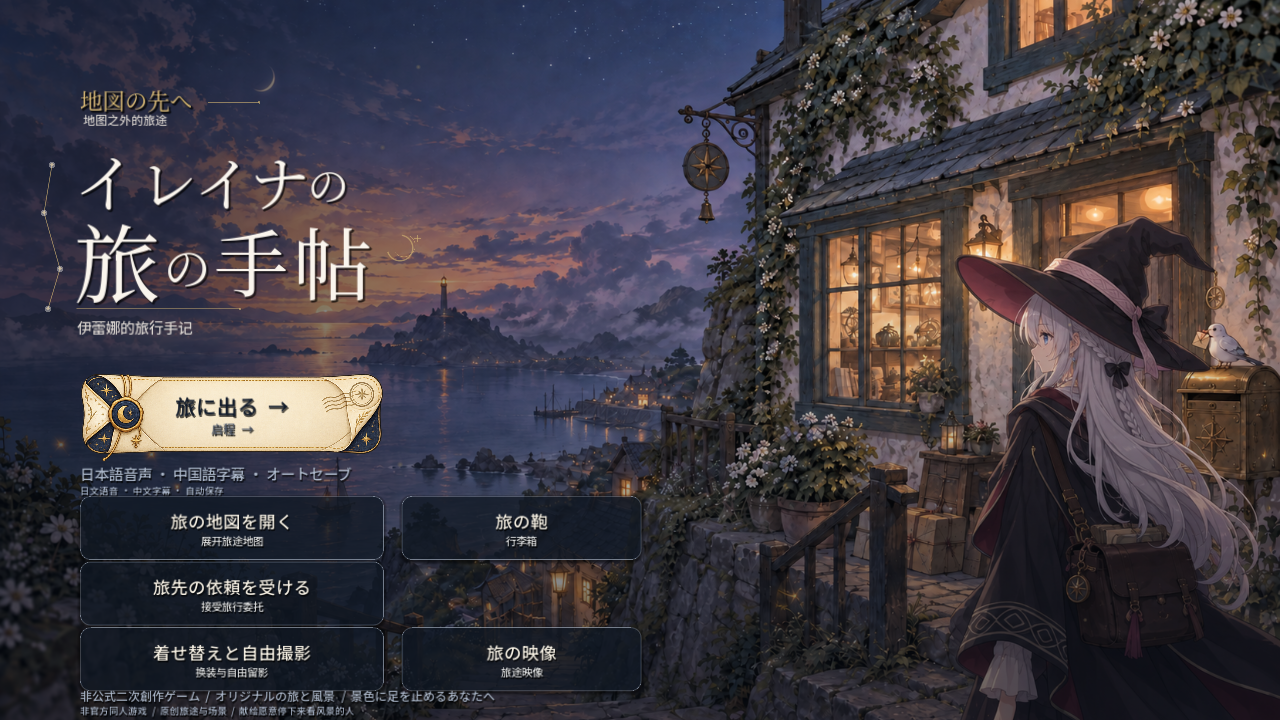
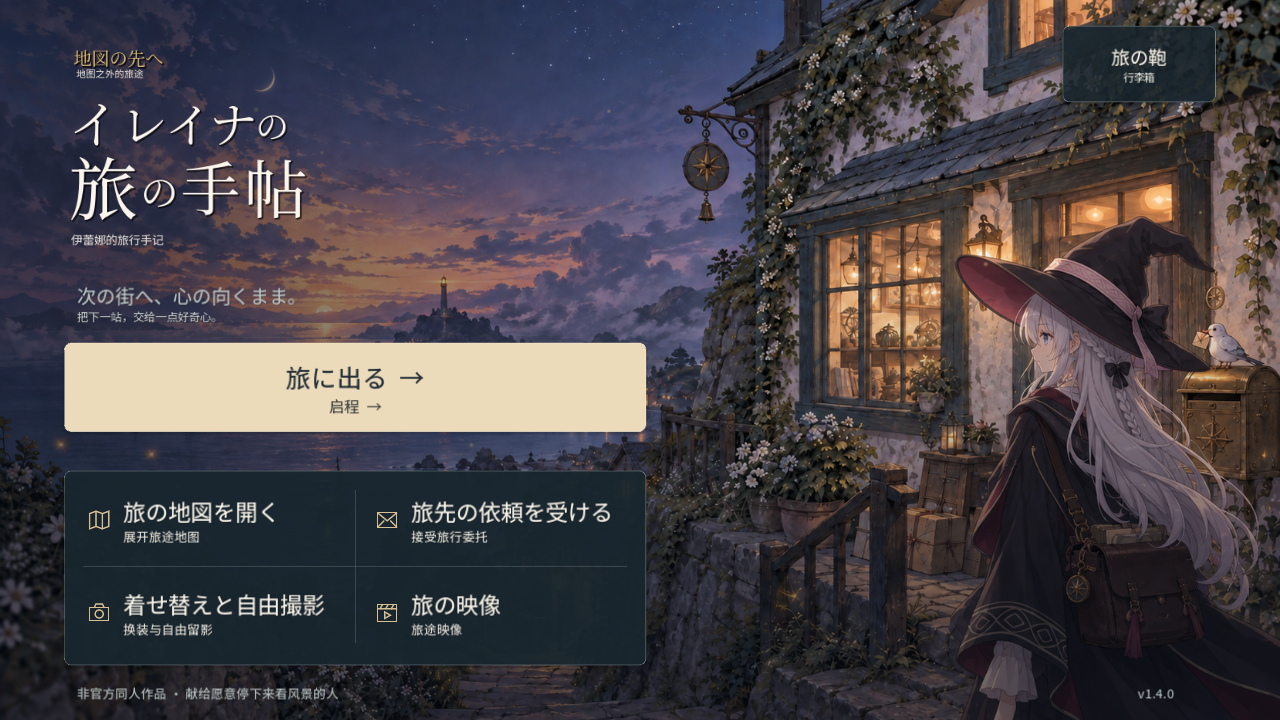
Release 1.4.0 travel-journal UI for Windows and Android

Changed region(s): [[0.0312, 0.0611, 0.5312, 1.0], [0.8125, 0.0306, 0.9688, 0.1528], [0.875, 0.9472, 0.9062, 0.9778]]

diff --git a/README.en.md b/README.en.md
@@ -18,6 +18,13 @@ There is lighthearted conversation, Elaina’s wry inner commentary, and stories
 
 ![Main menu: Elaina and a town at dusk](docs/images/menu.png)
 
+## 1.4.0 · A travel-journal interface
+
+- A clearer Start / Continue action, with map, commissions, outfits and films together in one navigation strip.
+- A separate two-column layout with larger touch targets on Android.
+- Consistent paper-toned buttons, original line icons, keyboard focus and hover feedback. Animations respect the motion setting.
+- Existing save formats are retained, so ongoing journeys can continue.
+
 ## What you can experience
 
 - **Six journeys with branching endings:** Explore different places, talk to the people you meet, make choices, and collect small discoveries along the way.
@@ -35,6 +42,10 @@ There is lighthearted conversation, Elaina’s wry inner commentary, and stories
 
 ![Broom flight minigame](docs/images/flight.png)
 
+![Journey map and progress](docs/images/map.png)
+
+![Sound and reading settings](docs/images/settings.png)
+
 These screenshots are from the Windows version. The Android version is adapted for landscape touch controls.
 
 ![Android main menu with landscape touch controls](docs/images/android-menu.png)
@@ -47,8 +58,8 @@ Go to the **[Releases page](https://github.com/elaina5201314qaq-max/elaina-trave
 
 | Platform | Current game version | Download file | Basic requirements |
 | --- | --- | --- | --- |
-| Windows | 1.3.0 | `ElainaTravel-Windows-1.3.0.zip` | A 64-bit Windows PC |
-| Android | 1.3.1 | `ElainaTravel-Android-1.3.1.apk` | Android 7.0+, 64-bit ARM64 or x86_64, and OpenGL ES 3.0 |
+| Windows | 1.4.0 | `ElainaTravel-Windows-1.4.0.zip` | A 64-bit Windows PC |
+| Android | 1.4.0 | `ElainaTravel-Android-1.4.0.apk` | Android 7.0+, 64-bit ARM64 or x86_64, and OpenGL ES 3.0 |
 
 For Android, at least **2 GB** of free space is recommended. Both versions can be played offline after installation; no account, separate game engine, or voice model is needed.
 
@@ -60,7 +71,7 @@ The release includes `SHA256SUMS.txt`, which you can use to check the integrity 
 
 ### Windows
 
-1. Download `ElainaTravel-Windows-1.3.0.zip`.
+1. Download `ElainaTravel-Windows-1.4.0.zip`.
 2. Extract the entire archive into a folder.
 3. Double-click `伊蕾娜的旅行手记.exe` inside that folder and choose to begin your journey.
 
@@ -68,11 +79,11 @@ Extract the archive before running the game, and keep the included instructions 
 
 ### Android
 
-1. Download `ElainaTravel-Android-1.3.1.apk` on your phone.
+1. Download `ElainaTravel-Android-1.4.0.apk` on your phone.
 2. Open the APK in a file manager. If Android requests installation permission, enable “Install unknown apps” only for the file manager you are using.
 3. Once installed, play in landscape orientation. You can turn that installation permission off afterward.
 
-The current version has been tested in an Android 11 emulator for installation, touch controls, saves, narration, and CG playback. **It has not yet been tested on a physical Android phone.** If you encounter a compatibility problem, please include your phone model and Android version in your report.
+The current version has been tested in an Android 11 emulator for installation, touch controls, saved preferences, background recovery, and resuming after a cold launch. **It has not yet been tested on a physical Android phone.** If you encounter a compatibility problem, please include your phone model and Android version in your report.
 
 Windows and Android versions are currently available. There are no iOS, macOS, or Linux installation packages.
 

diff --git a/README.md b/README.md
@@ -16,6 +16,13 @@
 
 ![游戏首页：黄昏中的城镇与伊蕾娜](docs/images/menu.png)
 
+## 1.4.0 · 旅人手册界面
+
+- 首页突出启程与继续旅行，地图、委托、换装和映像集中在横向导航中。
+- 安卓版使用独立的双列大触控布局。
+- 统一纸色主按钮、线描图标、键盘焦点与悬停反馈；动效遵循设置中的开关。
+- 保留原有存档格式，可以继续已有旅途。
+
 ## 可以体验什么
 
 - **六篇旅途与分支结局**：在不同地方探索、交谈、作出选择，收集沿途的小发现。
@@ -33,6 +40,10 @@
 
 ![扫帚飞行小游戏](docs/images/flight.png)
 
+![旅途地图：插画与进度](docs/images/map.png)
+
+![行李箱：声音与阅读设置](docs/images/settings.png)
+
 以上为 Windows 版游戏画面。安卓版针对横屏触控作了适配。
 
 ![安卓版首页：横屏触控布局](docs/images/android-menu.png)
@@ -45,8 +56,8 @@
 
 | 平台 | 当前游戏版本 | 下载文件 | 基本要求 |
 | --- | --- | --- | --- |
-| Windows | 1.3.0 | `ElainaTravel-Windows-1.3.0.zip` | 64 位 Windows 电脑 |
-| Android | 1.3.1 | `ElainaTravel-Android-1.3.1.apk` | Android 7.0+、64 位 ARM64 或 x86_64、OpenGL ES 3.0 |
+| Windows | 1.4.0 | `ElainaTravel-Windows-1.4.0.zip` | 64 位 Windows 电脑 |
+| Android | 1.4.0 | `ElainaTravel-Android-1.4.0.apk` | Android 7.0+、64 位 ARM64 或 x86_64、OpenGL ES 3.0 |
 
 安卓建议预留至少 **2 GB** 空间。两端安装后均可离线游玩，无需账号、游戏引擎或配音模型。
 
@@ -58,7 +69,7 @@
 
 ### Windows
 
-1. 下载 `ElainaTravel-Windows-1.3.0.zip`。
+1. 下载 `ElainaTravel-Windows-1.4.0.zip`。
 2. 将整个压缩包解压到一个文件夹。
 3. 双击其中的 `伊蕾娜的旅行手记.exe`，选择开始旅行。
 
@@ -66,11 +77,11 @@
 
 ### Android
 
-1. 在手机上下载 `ElainaTravel-Android-1.3.1.apk`。
+1. 在手机上下载 `ElainaTravel-Android-1.4.0.apk`。
 2. 用文件管理器打开 APK。如果系统要求安装权限，仅为当前使用的文件管理器开启「安装未知应用」。
 3. 完成安装后横屏游玩；安装权限用完可以关闭。
 
-当前版本已在 Android 11 模拟器上做过安装、触控、存档、配音和 CG 验证，**尚未经过实体安卓手机测试**。遇到兼容性问题，欢迎反馈手机型号和系统版本。
+当前版本已在 Android 11 模拟器上验证安装、触控、设置保存、后台恢复与重新启动续读，**尚未经过实体安卓手机测试**。遇到兼容性问题，欢迎反馈手机型号和系统版本。
 
 目前提供 Windows 与 Android 版本，没有 iOS、macOS 或 Linux 安装包。
 

diff --git a/CHANGELOG.md b/CHANGELOG.md
@@ -1,0 +1,15 @@
+# 更新记录
+
+## 1.4.0 — 2026-10-17
+
+- 重做首页信息层级，突出启程和继续旅行；桌面辅助入口改为横向导航。
+- 安卓首页采用双列触控布局，保留双语界面。
+- 统一主题颜色、8px圆角、按钮、输入框、音量滑块和弹窗分隔线。
+- 新增原创线描导航图标、轻量入场、悬停和键盘焦点反馈；尊重动态效果开关。
+- 改善设置按钮间距，首页可直接打开行李箱。
+- Windows与Android版本统一为1.4.0；Android versionCode为10400，沿用原签名身份。
+- 剧情、语音、小游戏和存档格式保持兼容。
+
+## 1.3.1 — 2026-10-08
+
+- 首次在GitHub公开发布Windows 1.3.0与Android 1.3.1成品及三语说明。
